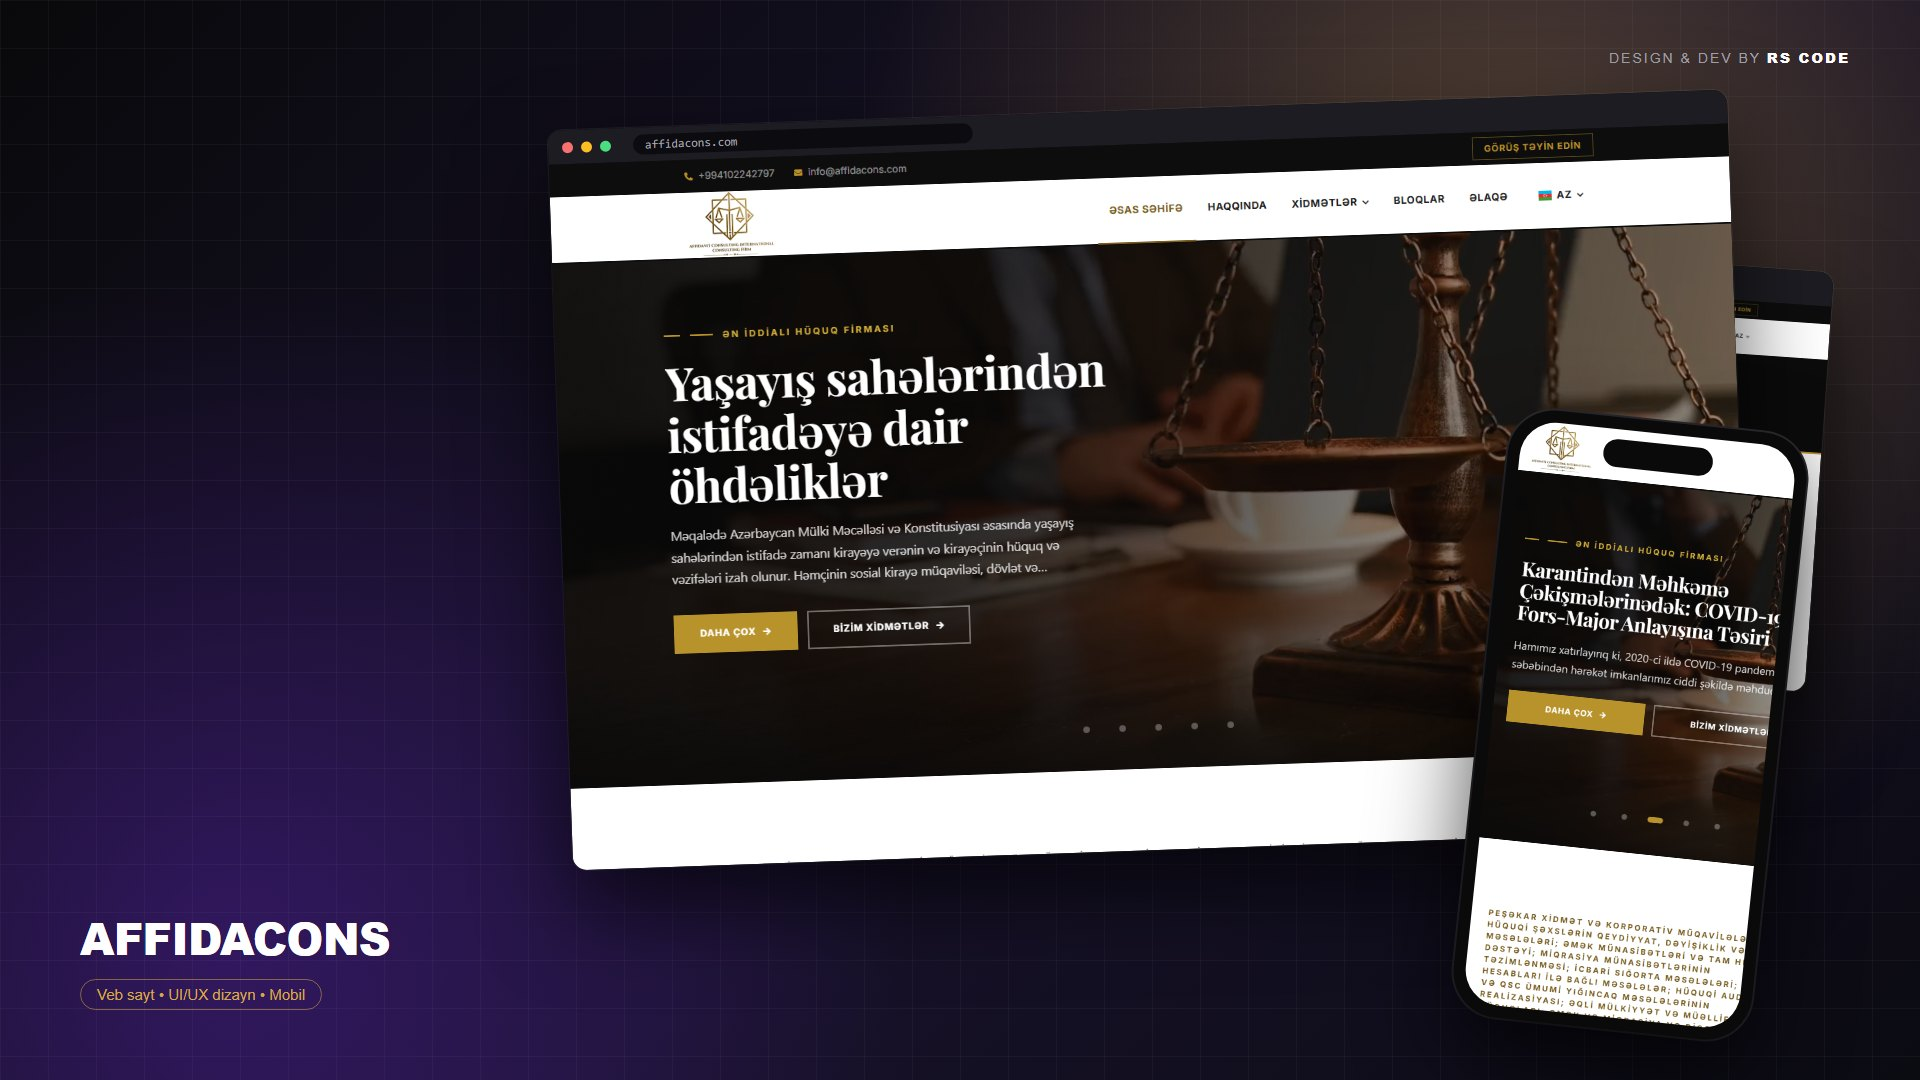
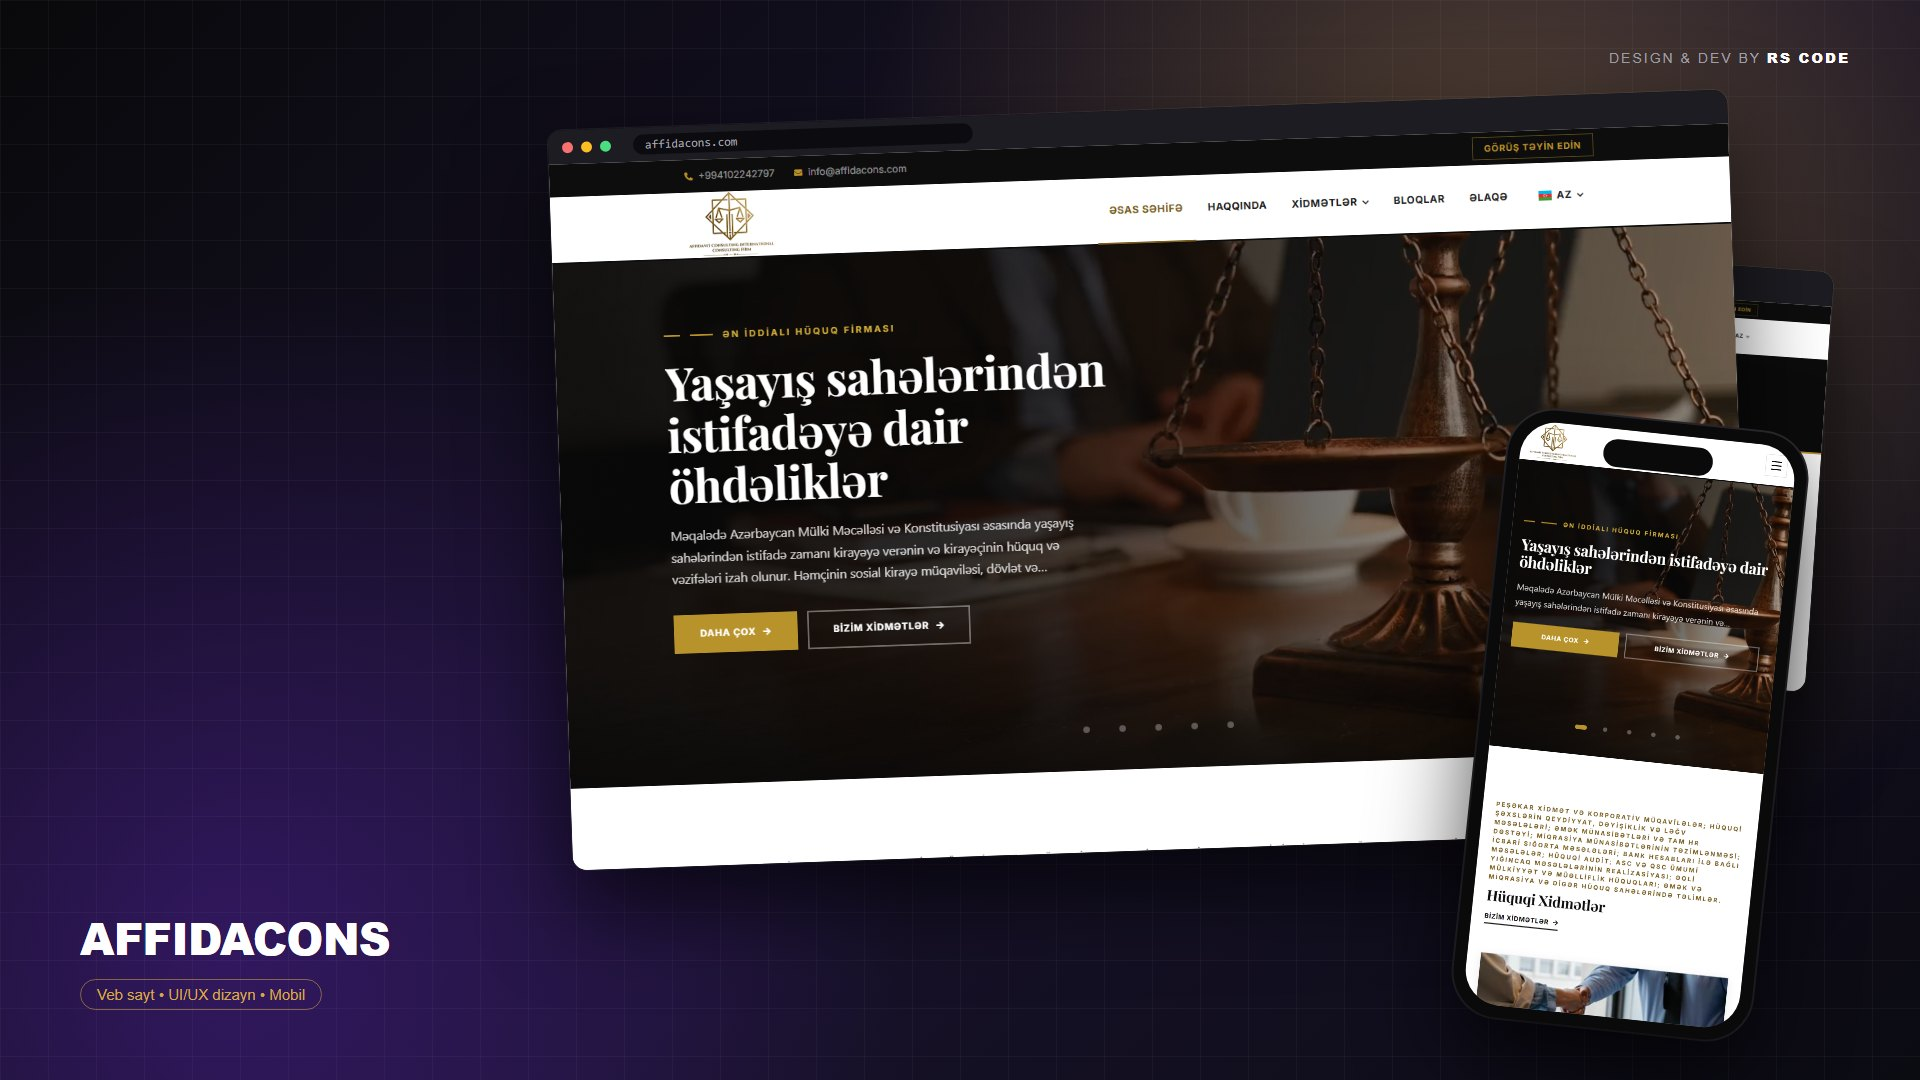
feat: portfolio — Mahmud Kaşğarlı (kashgarli.az); AFFIDACONS mobil görüntüsü düzəldildi; layihə şəkillərinə ?v= keş versiyası

Changed region(s): [[0.75, 0.3972, 0.9375, 0.9472]]

diff --git a/database/seeders/FigmaProjectsSeeder.php b/database/seeders/FigmaProjectsSeeder.php
@@ -55,6 +55,17 @@ class FigmaProjectsSeeder extends Seeder
                     ['Главная', 'О компании', 'Бренды (DEVI, Danfoss, FENIX, REHAU)', 'Страницы брендов и продукции', 'Проекты', 'Блог', 'Контакты'],
                     ['UI/UX дизайн (Figma)', 'Структура каталога брендов и продукции', 'Портфолио проектов', 'Премиальный интерьерный визуал', 'Мультиязычная структура']],
             ]],
+            'kashgarli' => ['Mahmud Kaşğarlı', 'https://kashgarli.az', '2026', [
+                'az' => ['"Mahmud Kaşğarlı" beynəlxalq elmi jurnalının saytı: jurnal nömrələri, məqalələr, arxiv və onlayn məqalə qəbulu.',
+                    ['Ana səhifə', 'Arxiv', 'Jurnal nömrəsi səhifəsi', 'Məqalə səhifəsi (PDF baxış, istinad)', 'Redaksiya heyəti', 'Müəlliflər üçün', 'Məqalə göndər', 'Xəbərlər', 'Əlaqə'],
+                    ['UI/UX dizayn və proqramlaşdırma', 'Mobil adaptasiya', 'Məqalələr üçün PDF baxış və istinad', 'Arxiv və axtarış', 'Onlayn məqalə göndərmə forması', 'Çoxdilli interfeys (AZ/EN/RU) və tünd rejim']],
+                'en' => ['Website of the "Mahmud Kashgarli" international scientific journal: issues, articles, archive and online submission.',
+                    ['Home', 'Archive', 'Issue page', 'Article page (PDF view, citation)', 'Editorial board', 'For authors', 'Submit an article', 'News', 'Contact'],
+                    ['UI/UX design and development', 'Mobile adaptation', 'PDF viewer and citation for articles', 'Archive and search', 'Online article submission form', 'Multilingual interface (AZ/EN/RU) and dark mode']],
+                'ru' => ['Сайт международного научного журнала «Махмуд Кашгари»: выпуски, статьи, архив и онлайн-приём статей.',
+                    ['Главная', 'Архив', 'Страница выпуска', 'Страница статьи (просмотр PDF, цитирование)', 'Редакционная коллегия', 'Авторам', 'Отправить статью', 'Новости', 'Контакты'],
+                    ['UI/UX дизайн и разработка', 'Мобильная адаптация', 'Просмотр PDF и цитирование статей', 'Архив и поиск', 'Форма онлайн-подачи статьи', 'Мультиязычный интерфейс (AZ/EN/RU) и тёмная тема']],
+            ]],
             'alza-fish' => ['Alza Fish', 'https://alzafish.az', '2025', [
                 'az' => ['Akvakultura və balıq məhsulları brendi üçün desktop və mobil dizaynlı sayt: məhsullar, media və bloq.',
                     ['Ana səhifə', 'Balıqlar', 'Kürü', 'Foto qalereya', 'Video', 'Bloq', 'Bloq daxili səhifə'],

diff --git a/resources/views/front/project-details.blade.php b/resources/views/front/project-details.blade.php
@@ -61,7 +61,7 @@
             <div class="lg:col-span-2"
                  x-data="{
                      cur: 0,
-                     imgs: {{ json_encode($allImgs->map(fn($f) => asset('images/projects/'.$f))->values()->all()) }},
+                     imgs: {{ json_encode($allImgs->map(fn($f) => pimg($f))->values()->all()) }},
                      prev() { this.cur = (this.cur - 1 + this.imgs.length) % this.imgs.length },
                      next() { this.cur = (this.cur + 1) % this.imgs.length }
                  }">
@@ -206,7 +206,7 @@
             <a href="/project-details/{{ $other->slug_az ?? $other->slug }}"
                class="group relative overflow-hidden rounded-2xl aspect-video block border border-zinc-800/50 hover:border-violet-500/30 transition-all">
                 @if($oImg)
-                <img src="{{ asset('images/projects/'.$oImg) }}" alt="{{ $oName }}"
+                <img src="{{ pimg($oImg) }}" alt="{{ $oName }}"
                      class="w-full h-full object-cover transition-transform duration-500 group-hover:scale-105">
                 @endif
                 <div class="absolute inset-0 bg-gradient-to-t from-black/80 via-black/20 to-transparent flex items-end p-4">

diff --git a/resources/views/front/index.blade.php b/resources/views/front/index.blade.php
@@ -85,7 +85,7 @@
             @endphp
             <a href="/project-details/{{ $pSlug }}" class="group relative overflow-hidden rounded-2xl aspect-[4/3] block">
                 @if($pImg)
-                <img src="{{ asset('images/projects/'.$pImg) }}" alt="{{ $project->{'name_'.$lang} ?? $project->name }}" class="w-full h-full object-cover transition-transform duration-700 group-hover:scale-110" loading="lazy">
+                <img src="{{ pimg($pImg) }}" alt="{{ $project->{'name_'.$lang} ?? $project->name }}" class="w-full h-full object-cover transition-transform duration-700 group-hover:scale-110" loading="lazy">
                 @else
                 <div class="w-full h-full bg-zinc-800 flex items-center justify-center">
                     <svg class="w-12 h-12 text-zinc-600" fill="none" stroke="currentColor" viewBox="0 0 24 24"><path stroke-linecap="round" stroke-linejoin="round" stroke-width="1.5" d="M4 16l4.586-4.586a2 2 0 012.828 0L16 16m-2-2l1.586-1.586a2 2 0 012.828 0L20 14m-6-6h.01M6 20h12a2 2 0 002-2V6a2 2 0 00-2-2H6a2 2 0 00-2 2v12a2 2 0 002 2z"/></svg>

diff --git a/app/helpers.php b/app/helpers.php
@@ -17,3 +17,15 @@ if (!function_exists('lurl')) {
         return $lang[$page] ?? '/';
     }
 }
+
+if (!function_exists('pimg')) {
+    /**
+     * Layihə şəklinin URL-i + dəyişmə vaxtı versiyası (şəkil yenilənəndə CDN keşi köhnəni göstərməsin)
+     */
+    function pimg(?string $file): string
+    {
+        $path = public_path('images/projects/' . $file);
+
+        return asset('images/projects/' . $file) . (is_file($path) ? '?v=' . filemtime($path) : '');
+    }
+}

diff --git a/resources/views/front/works.blade.php b/resources/views/front/works.blade.php
@@ -67,7 +67,7 @@
                     $imgFiles = collect([$project->photo1]);
                 }
                 $imgsJson = json_encode(
-                    $imgFiles->map(fn($f) => asset('images/projects/'.$f))->values()->all()
+                    $imgFiles->map(fn($f) => pimg($f))->values()->all()
                 );
             @endphp
 
